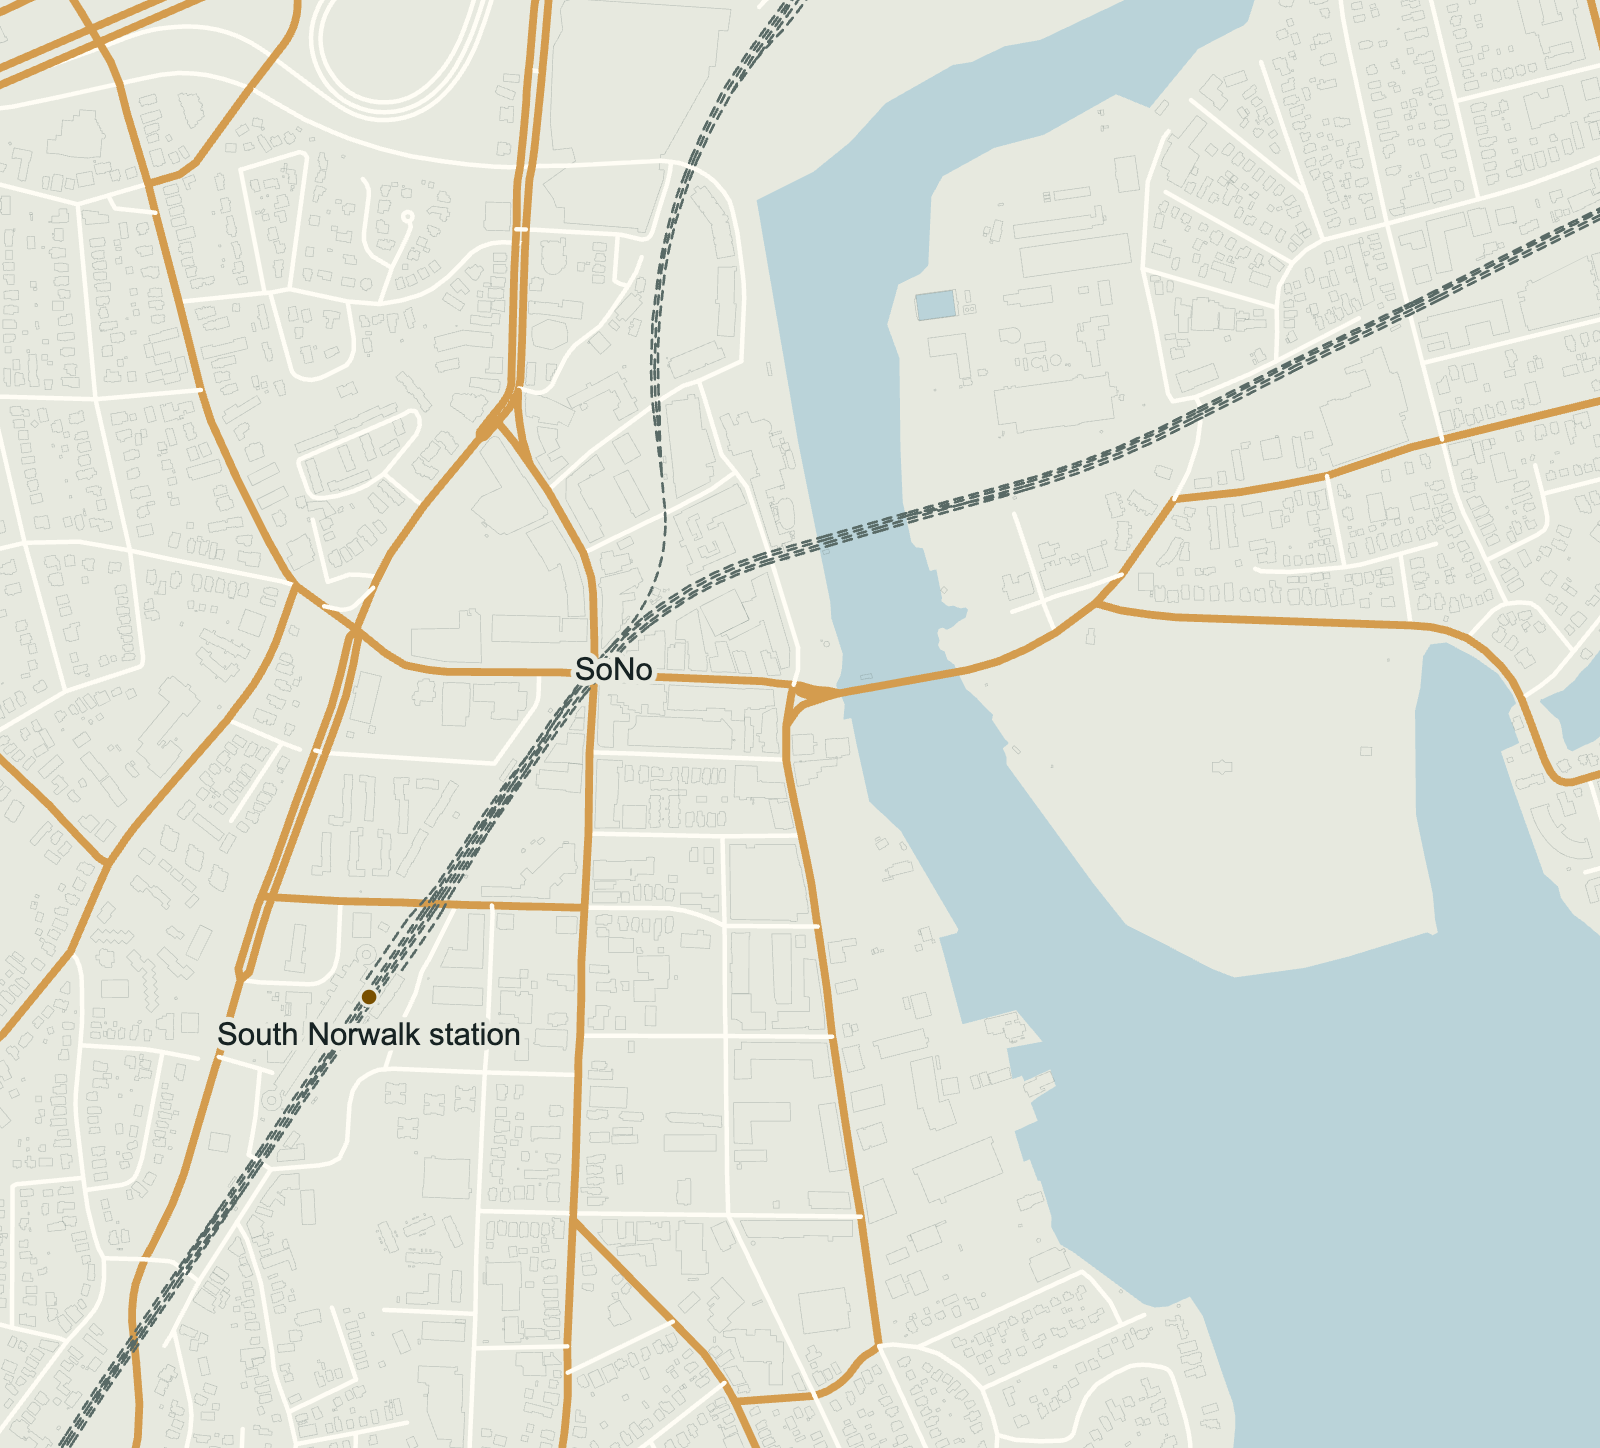
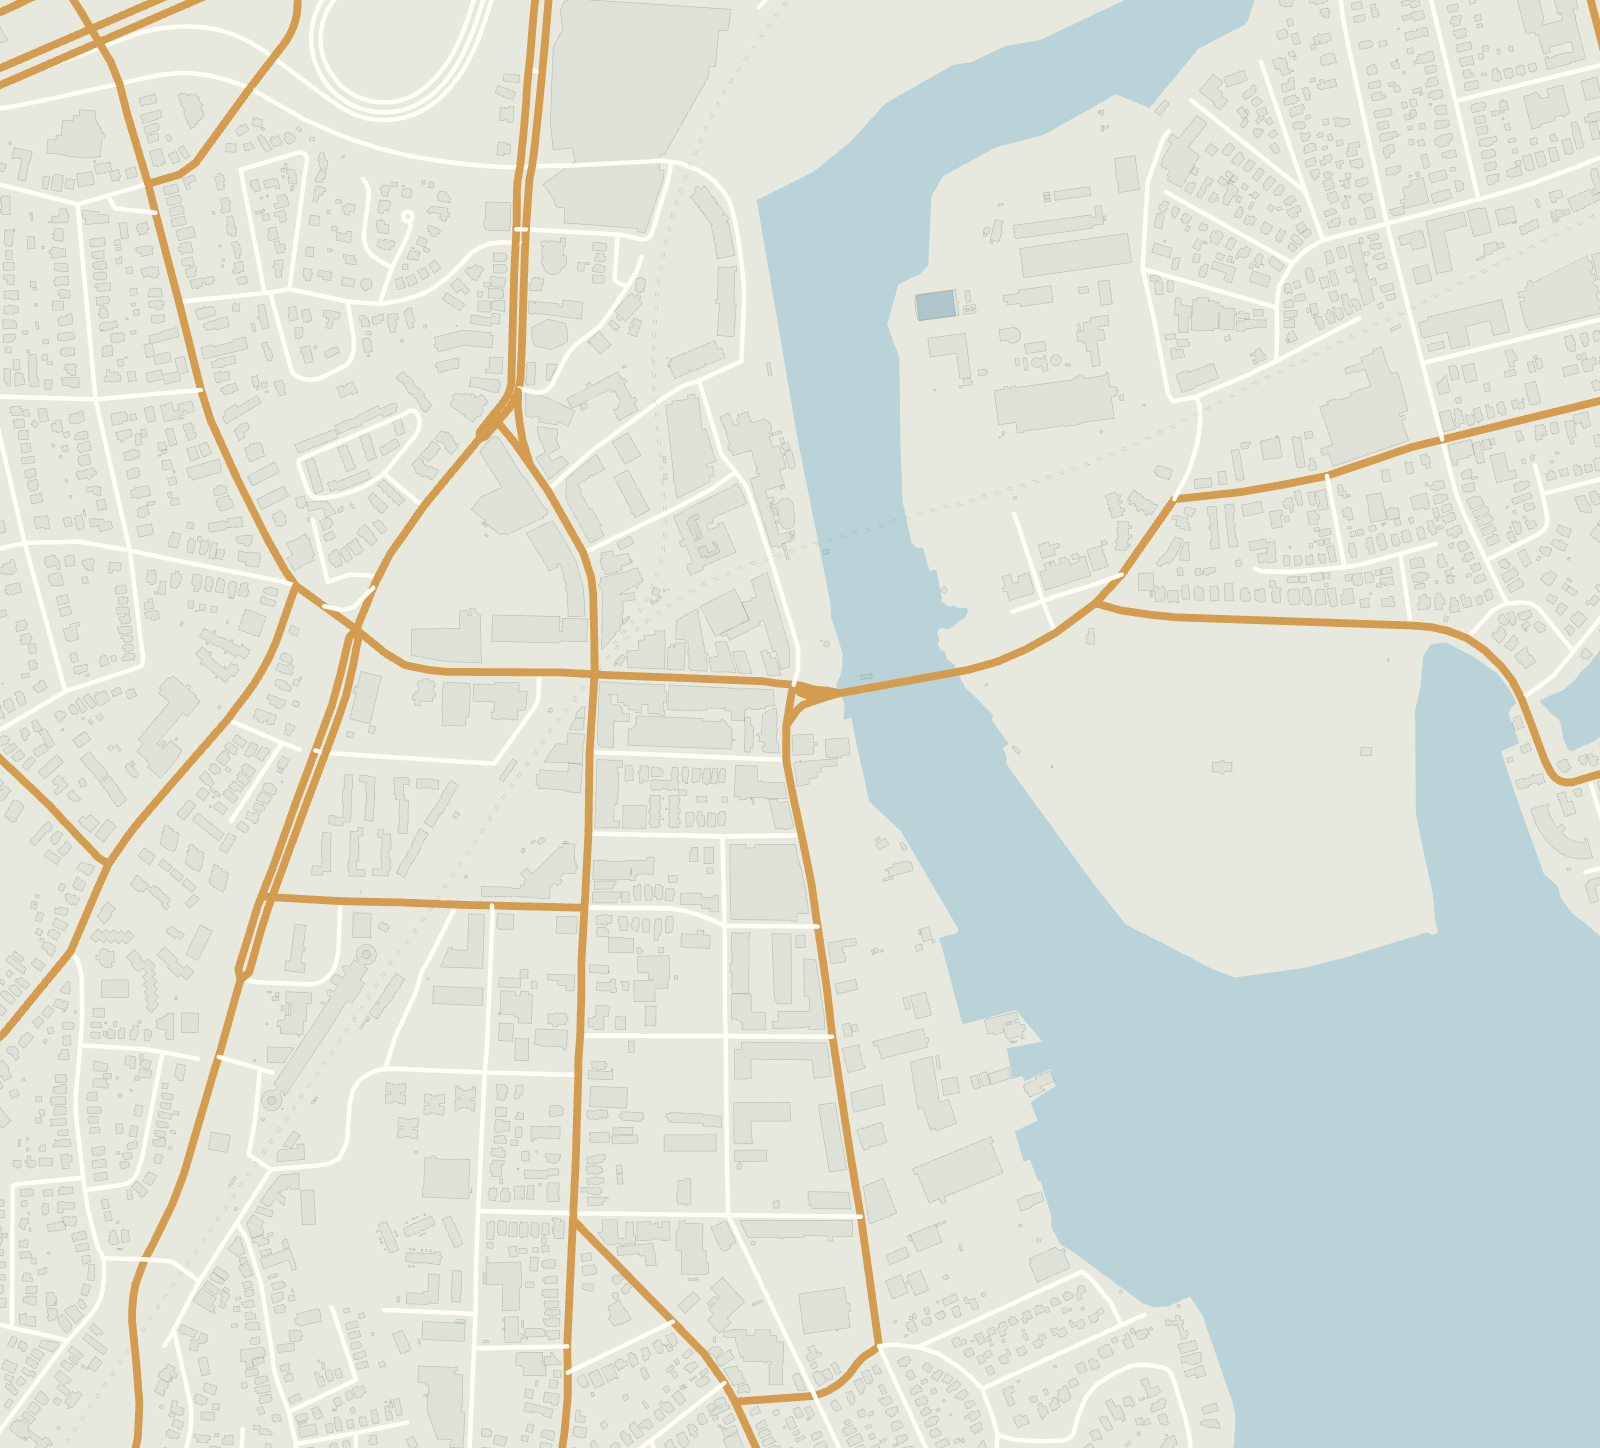
Quiet the SoNo base map beneath the course

diff --git a/pit/server/map/render_sono.py b/pit/server/map/render_sono.py
@@ -4,9 +4,9 @@ Coordinates are projected linearly to the exact WGS84 outer bounds in map.sono.j
 matching the existing renderer. No route or vehicle positions are baked in.
 Source geometry and ODbL notice: sono-map.geojson and SONO-MAP.md.
 """
-import html
 import json
 import math
+import statistics
 from pathlib import Path
 
 HERE = Path(__file__).resolve().parent
@@ -33,6 +33,46 @@ def path(points, closed=False):
                     for i, (x, y) in enumerate(map(project, points))) + (" Z" if closed else "")
 
 
+def rail_corridors(features):
+    """Generalize parallel OSM rail ways into two quiet corridor symbols.
+
+    Keep the original geometry in the GeoJSON; this is only cartographic styling.
+    The main line runs east/west, the branch north/south. Sample before taking
+    medians so short OSM ways do not get more weight than long ways.
+    """
+    for name, axis in (("New Haven Line", 0), ("Danbury Branch", 1)):
+        bins = {}
+        for f in features:
+            if f["properties"]["kind"] != "rail" or f["properties"].get("name") != name:
+                continue
+            points = [project(p) for p in f["geometry"]["coordinates"]]
+            for a, b in zip(points, points[1:]):
+                count = max(1, math.ceil(math.dist(a, b) / 4))
+                for i in range(count):
+                    p = [a[j] + (b[j] - a[j]) * i / count for j in (0, 1)]
+                    bins.setdefault(round(p[axis] / 8), []).append(p[1 - axis])
+        points = []
+        for k in sorted(bins):
+            p = [0, 0]
+            p[axis], p[1 - axis] = k * 8, statistics.median(bins[k])
+            points.append(p)
+        # A small moving average removes sampling steps, preserving the corridor.
+        smooth = [[sum(p[j] for p in points[max(0, i-1):i+2]) / len(points[max(0, i-1):i+2])
+                   for j in (0, 1)] for i in range(len(points))]
+        yield smooth
+
+
+def rail_pair(points, offset):
+    for side in (-1, 1):
+        out = []
+        for i, p in enumerate(points):
+            a, b = points[max(0, i-1)], points[min(len(points)-1, i+1)]
+            dx, dy = b[0] - a[0], b[1] - a[1]
+            length = math.hypot(dx, dy) or 1
+            out.append((p[0] - side * offset * dy / length, p[1] + side * offset * dx / length))
+        yield " ".join(("M" if i == 0 else "L") + f"{x:.2f},{y:.2f}" for i, (x, y) in enumerate(out))
+
+
 def render():
     features = json.loads((HERE / "sono-map.geojson").read_text())["features"]
     for name, (bg, water, road, major, rail, ink, accent) in PALETTES.items():
@@ -43,29 +83,29 @@ def render():
                  '<desc>Data: https://www.openstreetmap.org/copyright · ODbL 1.0. Area reference; no course route.</desc>',
                  f'<rect width="{WIDTH}" height="{HEIGHT}" fill="{bg}"/>']
         for kind in ("water", "building", "road", "rail", "label"):
+            if kind == "rail":
+                for corridor in rail_corridors(features):
+                    for d in rail_pair(corridor, .55 * scale):
+                        parts.append(f'<path class="rail-corridor" d="{d}" fill="none" stroke="{rail}" stroke-width="{.24*scale}" stroke-opacity="{.4 if high else .28}" stroke-dasharray="{2.5*scale} {3.5*scale}" stroke-linecap="butt"/>')
+                continue
             for f in features:
                 p, g = f["properties"], f["geometry"]
                 if p["kind"] != kind:
                     continue
                 if kind == "label":
-                    x, y = project(g["coordinates"])
-                    station = "station" in p["name"]
-                    if station:
-                        parts.append(f'<circle cx="{x:.2f}" cy="{y:.2f}" r="{4*scale}" fill="{accent}" stroke="{bg}" stroke-width="{1.5*scale}"/>')
-                        y += 18 * scale
-                    parts.append(f'<text x="{x:.2f}" y="{y:.2f}" fill="{ink}" stroke="{bg}" stroke-width="{5*scale}" paint-order="stroke" stroke-linejoin="round" text-anchor="middle" dominant-baseline="middle" font-family="Arial,sans-serif" font-size="{14*scale}">{html.escape(p["name"])}</text>')
+                    # Labels are painted by the driver at a fixed screen size.
                     continue
                 polygon = g["type"] == "Polygon"
                 d = " ".join(path(ring, True) for ring in g["coordinates"]) if polygon else path(g["coordinates"])
                 if kind == "building":
-                    parts.append(f'<path class="building-outline" d="{d}" fill="none" stroke="{rail}" stroke-width="{.32*scale}" stroke-opacity="{.4 if high else .28}" stroke-linejoin="round"/>')
+                    parts.append(f'<path class="building-outline" d="{d}" fill="{rail if polygon else "none"}" fill-opacity="{.09 if high else .06}" stroke="{rail}" stroke-width="{.32*scale}" stroke-opacity="{.4 if high else .28}" stroke-linejoin="round"/>')
                     continue
                 is_major = p["class"] in ("primary", "secondary", "tertiary", "motorway")
                 color = water if kind == "water" else rail if kind == "rail" else major if is_major else road
-                width = 1.2 if kind == "rail" else (4.5 if high else 3.5) if is_major else (2.5 if high else 2)
+                width = .7 if kind == "rail" else (4.5 if high else 3.5) if is_major else (2.5 if high else 2)
                 style = f'fill="{water}" stroke="none"' if kind == "water" and polygon else f'fill="none" stroke="{color}" stroke-width="{width*scale}"'
                 if kind == "rail":
-                    style += f' stroke-dasharray="{4*scale} {3*scale}"'
+                    style += f' stroke-dasharray="{4*scale} {3*scale}" stroke-opacity=".45"'
                 parts.append(f'<path d="{d}" {style} stroke-linecap="round" stroke-linejoin="round"/>')
         parts.append('</svg>')
         (HERE.parents[2] / "kart/server/static" / f"sono-{name}.svg").write_text("\n".join(parts) + "\n")

diff --git a/pit/server/map/SONO-MAP.md b/pit/server/map/SONO-MAP.md
@@ -1,14 +1,18 @@
 # SoNo GUI map
 
 `map.sono.json` is a separate preview preset for Hunter's graphics branch. Select
-it with `python3 -I kart/sim/run-sim.py --map pit/server/map/map.sono.json` from the
+it with `python3 -I kart/sim/run-gui.py` from the
 repository root. It does not replace the active map, shop or Manresa presets.
-There is no course baked into the artwork; the simulator supplies a test route.
+There is no course baked into the artwork; `kart/sim/zones.gui.json` supplies a
+sample street loop to the overlay and every simulated kart. These are graphics
+fixtures, not a designated driving course. The original simulator engine and
+production server are unchanged.
 
 The 2026-11-10 refinement adds 2,024 building-outline features from the same cached
-OSM extract, including relation-member outlines. They have no fill, a thin muted
-stroke and lower contrast than streets. No address metadata is included. Map
-package version 1002 updates the PNG fallback; the active operational map remains unchanged.
+OSM extract, including relation-member outlines. Closed footprints have a faint
+6% fill (9% in high contrast), with thin muted strokes below street contrast.
+Place labels are drawn by the driver at a fixed screen size; each rail corridor uses two thin, lightly dashed lines. No address metadata is included. Map package version 1003 updates the
+PNG fallback and preview origin; the active operational map remains unchanged.
 
 `sono-map.geojson` is the local South Norwalk OpenStreetMap extract, with source
 and license metadata. Map data © [OpenStreetMap contributors](https://www.openstreetmap.org/copyright),
